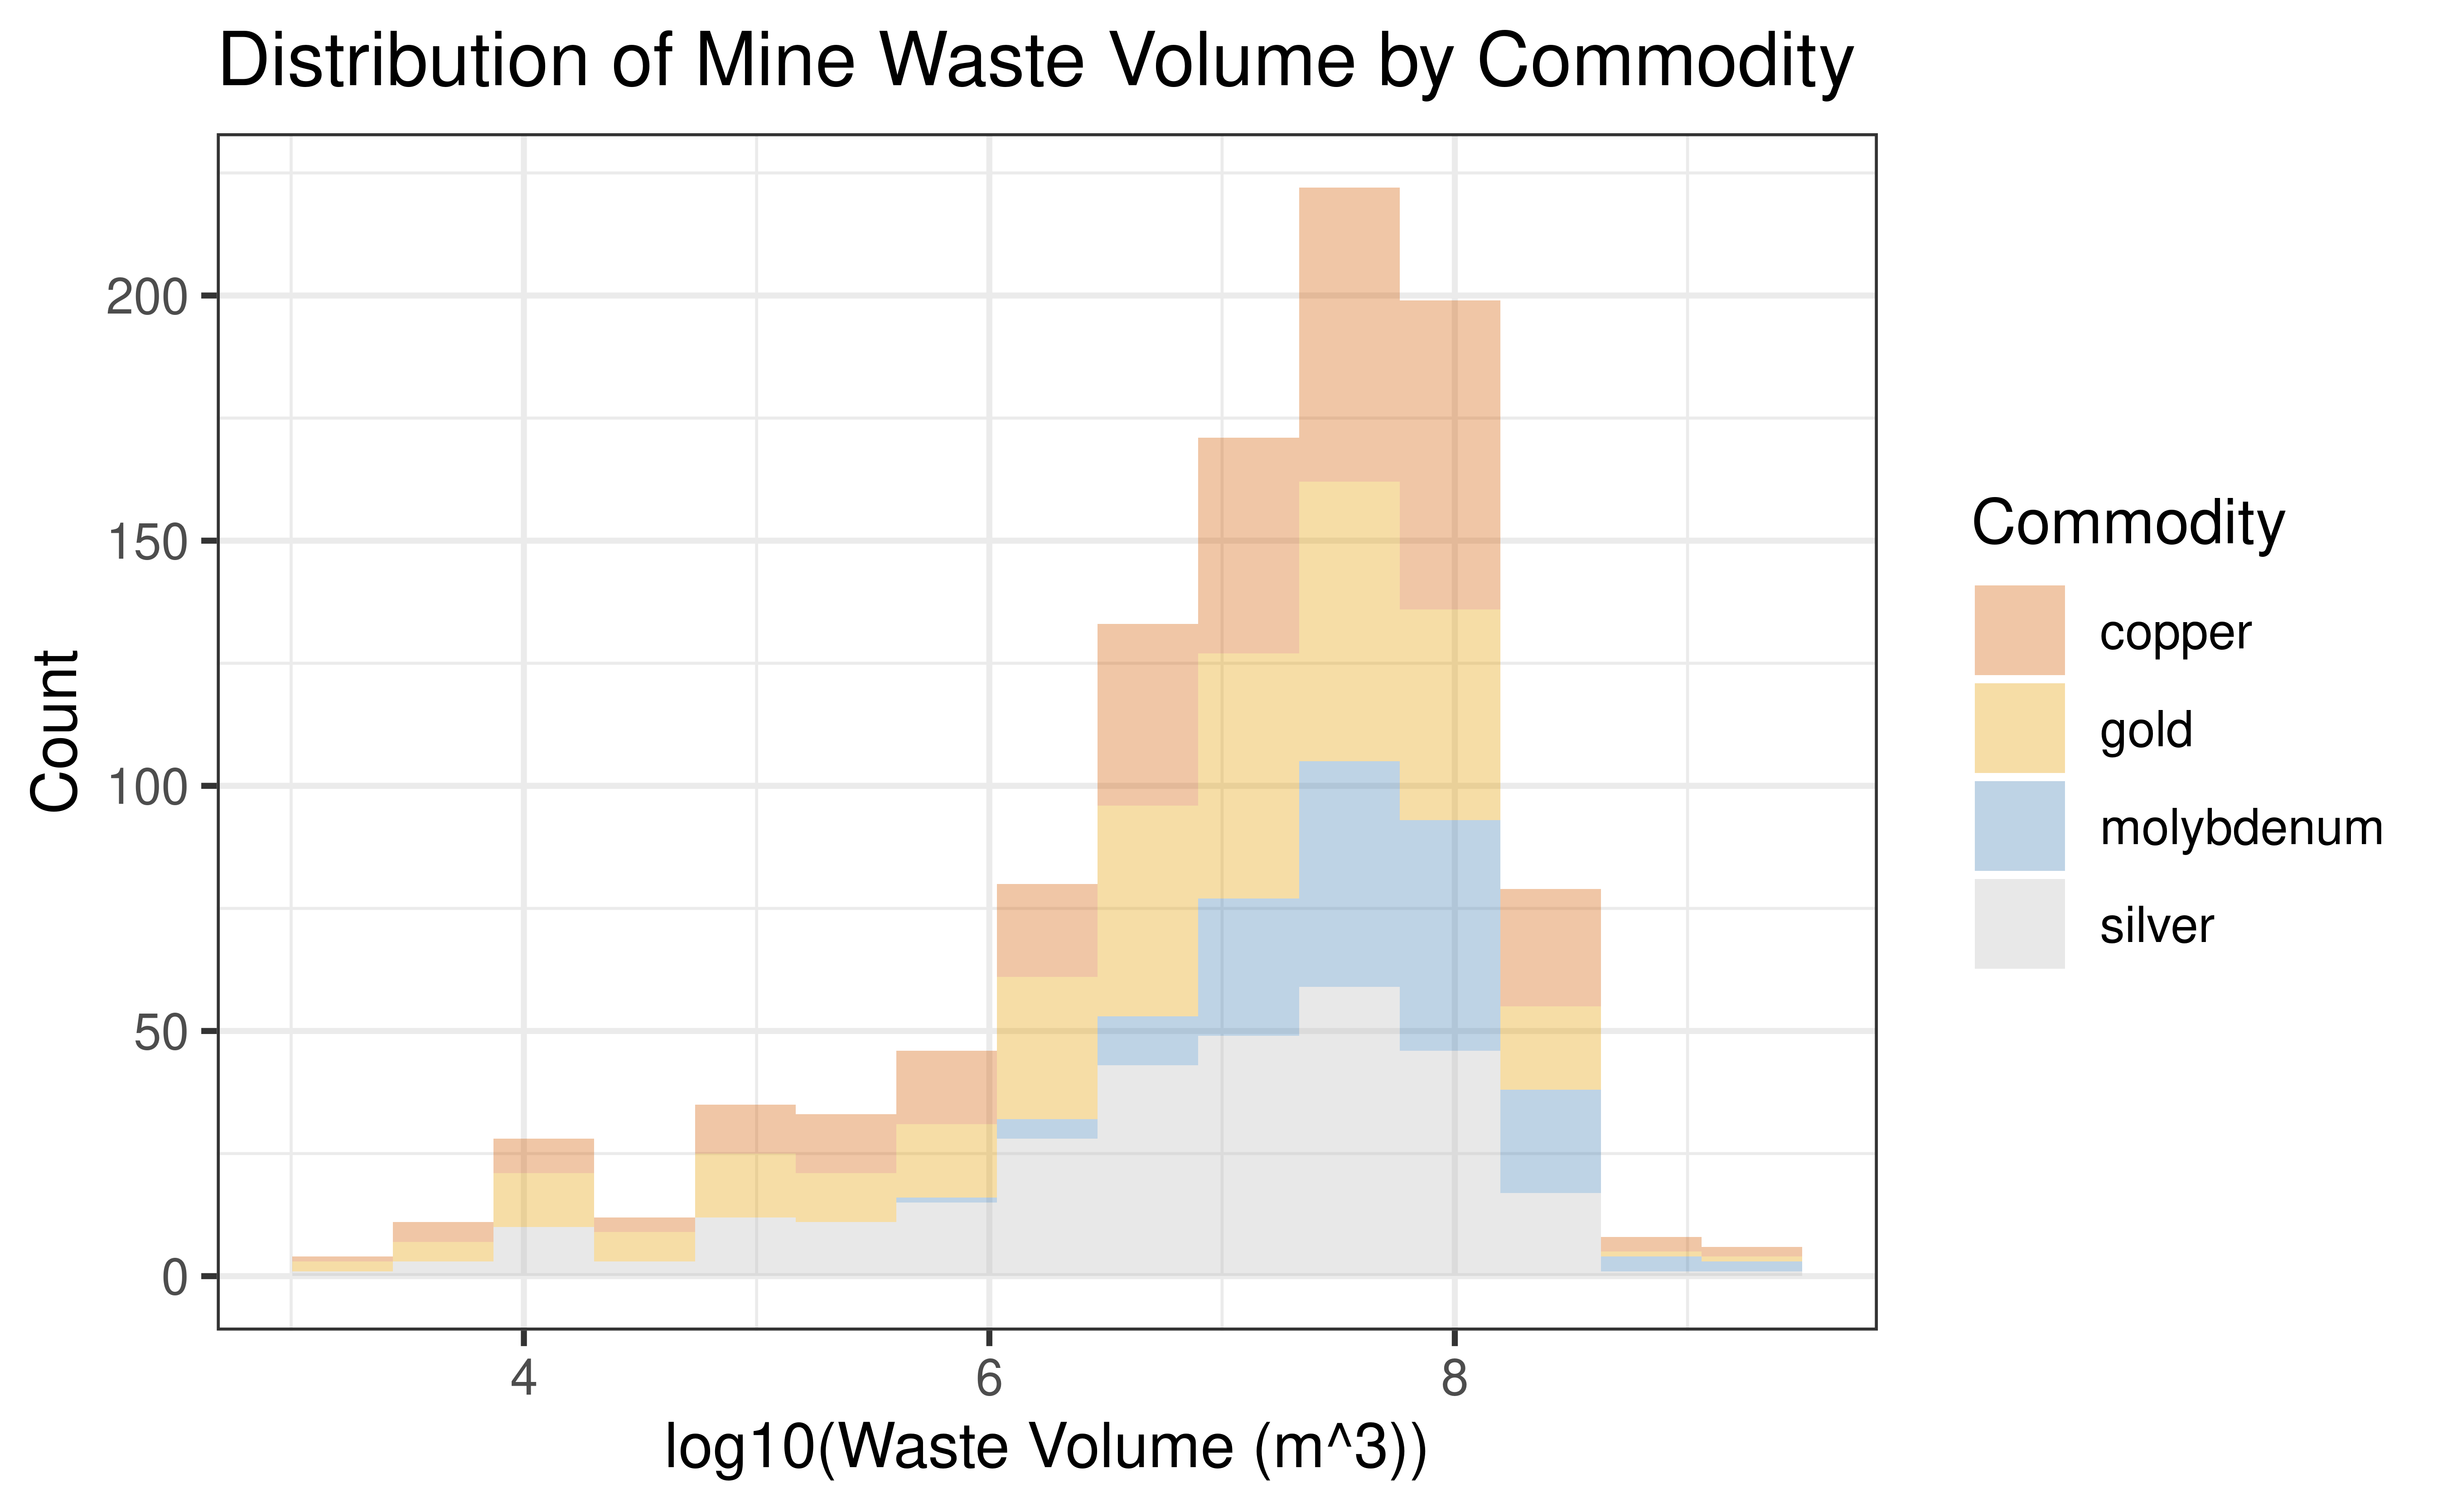
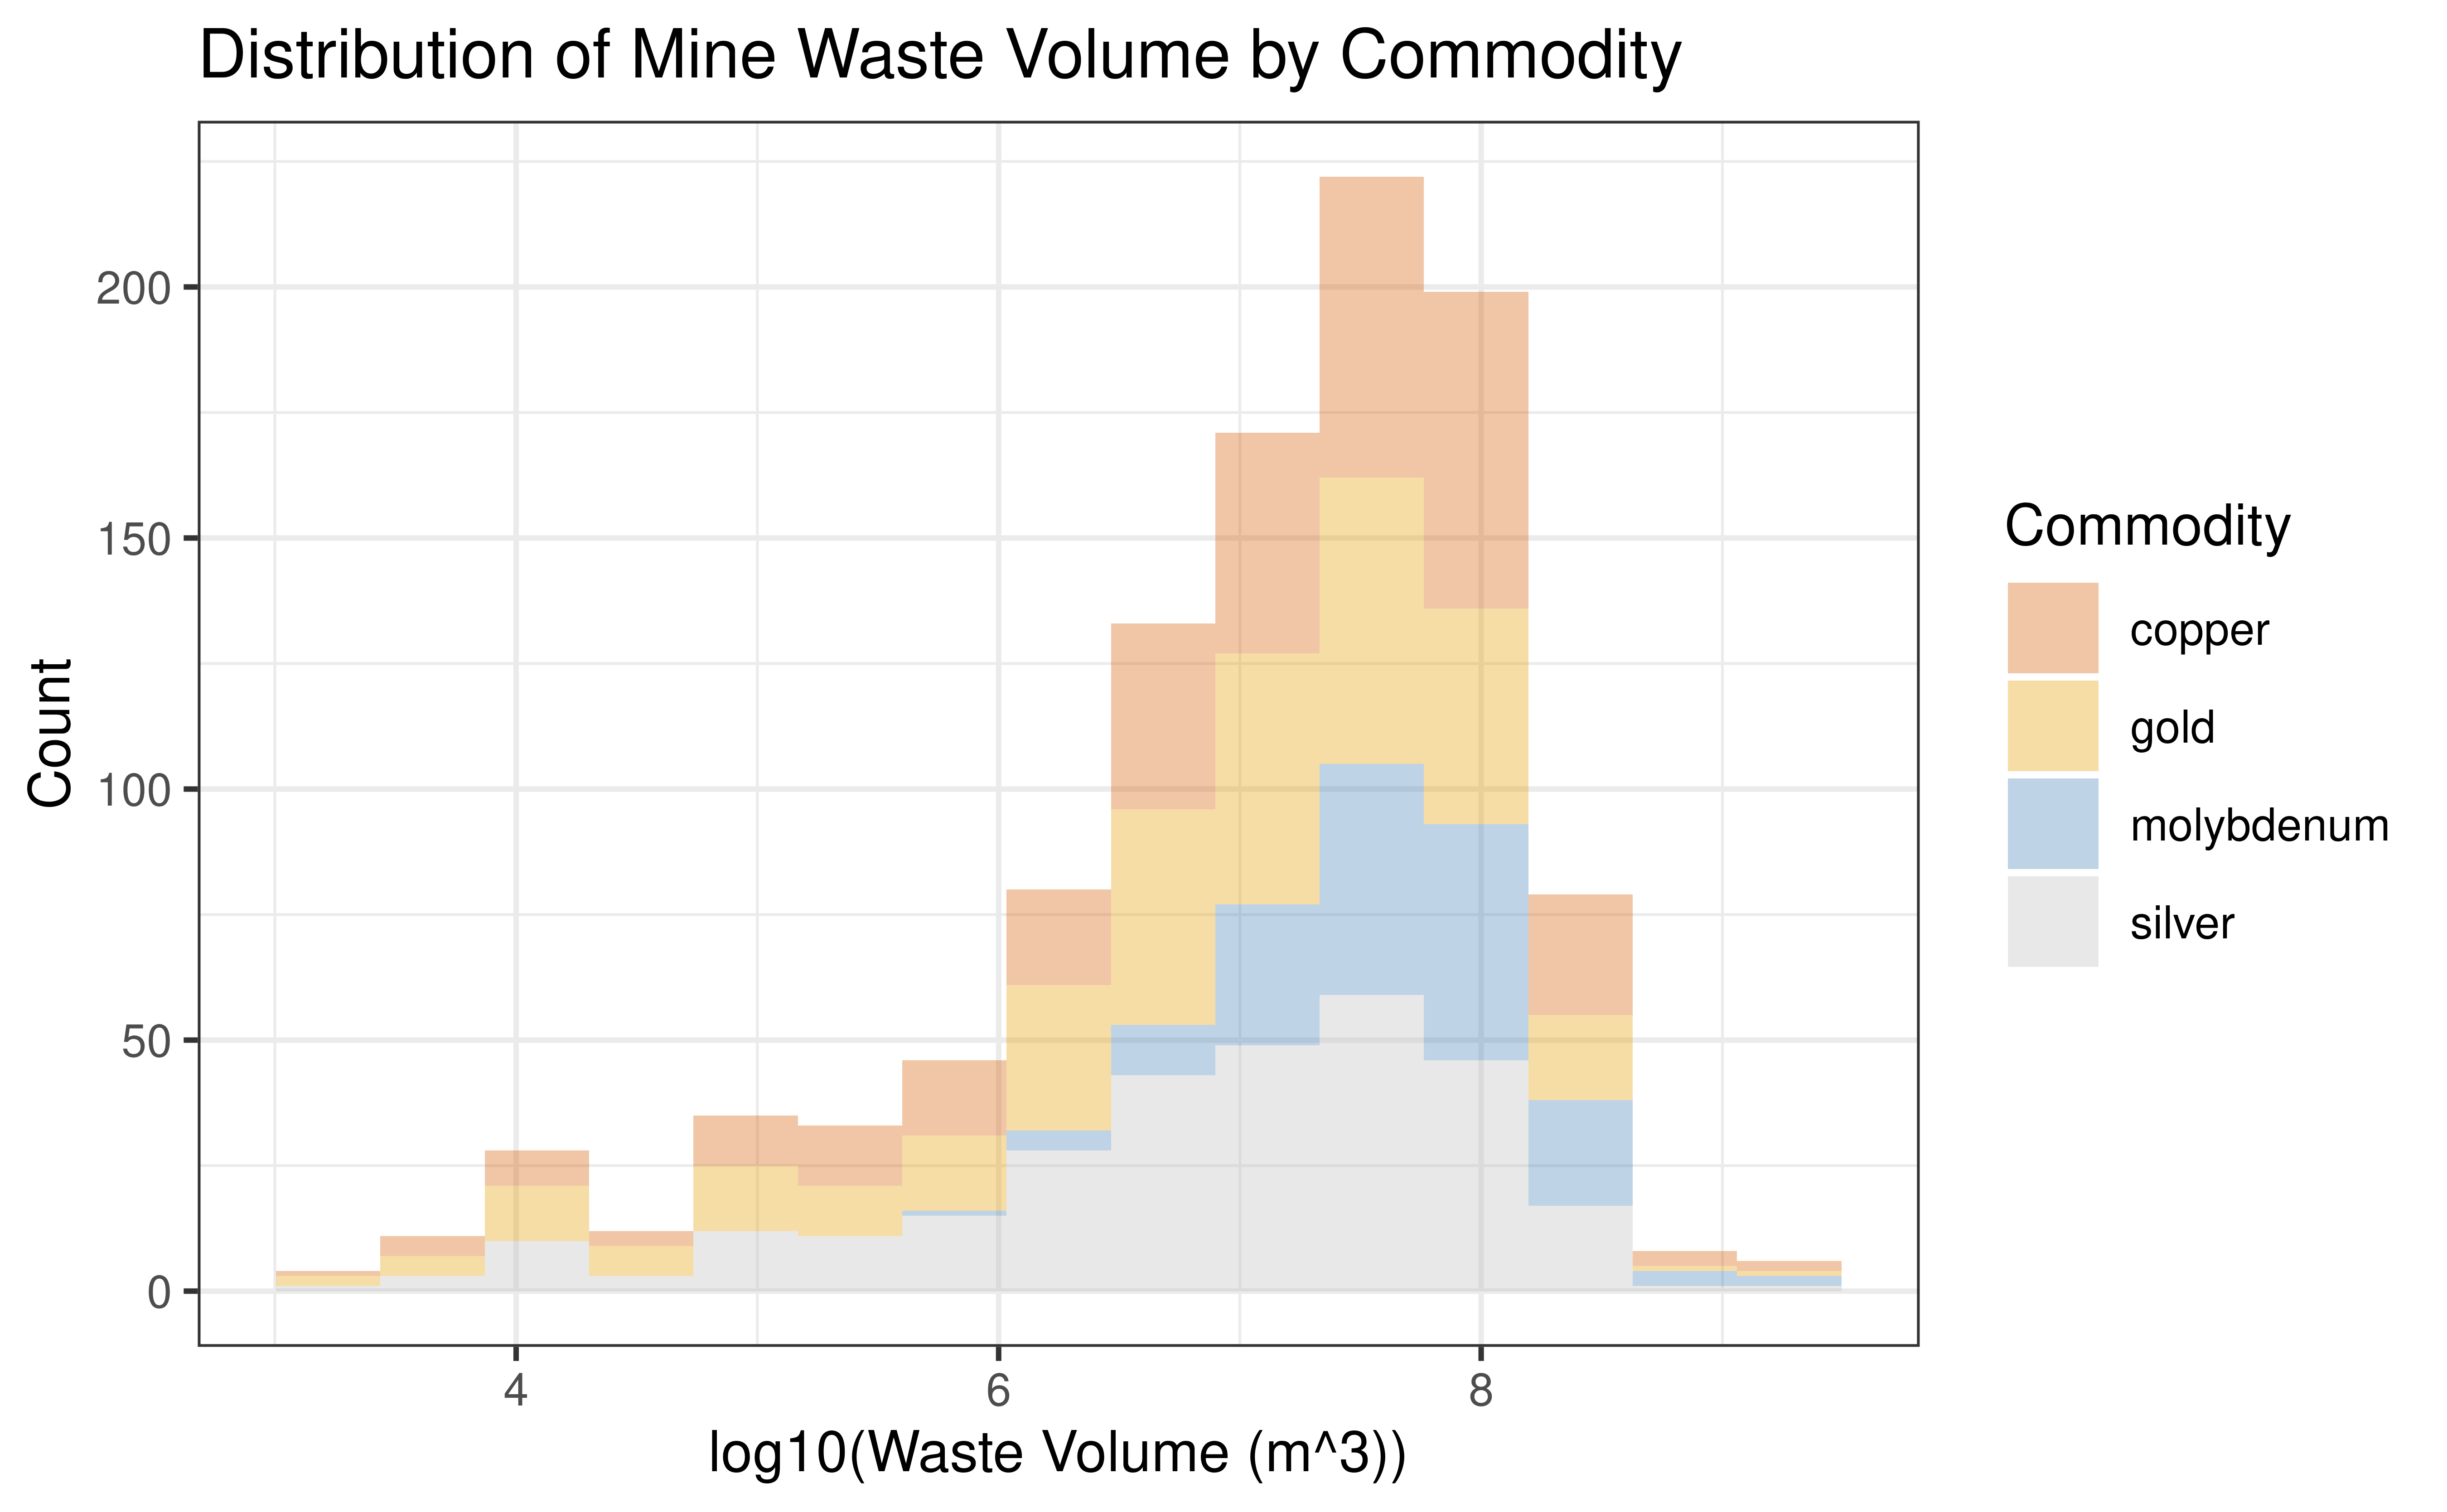
Final Presentation

diff --git a/project-starter/presentation/presentation.html b/project-starter/presentation/presentation.html
@@ -6,6 +6,7 @@
     <meta name="author" content="Indigo Sterud" />
     <meta name="date" content="2026-05-04" />
     <script src="libs/header-attrs-2.31/header-attrs.js"></script>
+    <link href="libs/remark-css-0.0.1/default.css" rel="stylesheet" />
     <script src="libs/kePrint-0.0.1/kePrint.js"></script>
     <link href="libs/lightable-0.0.1/lightable.css" rel="stylesheet" />
     <link rel="stylesheet" href="xaringan-themer.css" type="text/css" />
@@ -41,7 +42,6 @@ class: center, middle, inverse, title-slide
 
 
 
-
 ## Research Questions
 
 - Are there differences in waste production across states?
@@ -53,7 +53,7 @@ class: center, middle, inverse, title-slide
 ---
 
 ## Mining Data
-- Columns represent different mine waste features for each Mine Location.
+- Columns represent different mine waste features for each mine location.
 - Commodity = Minerals mine factories want
 - Gangue_Min = non-commodity minerals
 
@@ -148,10 +148,10 @@ class: center, middle
 ## Differences in Calculating Mining Waste per State
 
 ---
+class: center, middle
+**Arizona and Utah have large outliers...**
 
-Arizona and Utah have large outliers...
-
-- This reveals that using medians instead of means will be more beneficial in preventing skewed data.
+This reveals that using medians instead of means will be more beneficial in preventing skewed data, as well as using a log scale.
 
 &lt;img src="presentation_files/figure-html/state-waste-regular-1.png" alt="" width="80%" /&gt;
 
@@ -165,51 +165,23 @@ Arizona and Utah have large outliers...
 
 1.) It is a giant compliaton of PUBLIC mining data across the US, compiled by USGS.
 
-2.) Does not represent the whole of mines across each state / resource, or private companies.
+
+2.) Does not represent the whole of mines across each state / resource, especially private companies.
+
 
 3.) This already gives the data a lot of room for error.
 
+
 ---
 
-``` r
-set.seed(100)
-bootstrap_state &lt;- mining_clean %&gt;%
-  group_by(state_abbr) %&gt;%
-  summarize(
-    boot_median = list(
-      replicate(1000,
-        median(sample(Calc_Vol, replace = TRUE), na.rm = TRUE)
-      )
-    )
-  )
-
-bootstrap_ci &lt;- bootstrap_state %&gt;%
-  mutate(
-    median_est = map_dbl(boot_median, median),
-    lower = map_dbl(boot_median, ~quantile(.x, 0.025)),
-    upper = map_dbl(boot_median, ~quantile(.x, 0.975))
-  )
-
-ggplot(bootstrap_ci,
-       aes(x = reorder(state_abbr, median_est),
-           y = median_est)) +
-  geom_col(fill = "steelblue") +
-  scale_y_log10() +
-  geom_errorbar(aes(ymin = lower, ymax = upper), width = 0.35) +
-  theme_bw(base_size = 12) +
-  labs(
-    title = "Bootstrapped Median Mine Waste Volume by State",
-    x = "State",
-    y = "Median Volume"
-  )
-```
+**Bootstrapping** helps since some states have more mining sites than others.
 
 &lt;img src="presentation_files/figure-html/state-waste-bootstrap-1.png" alt="" width="80%" /&gt;
 
 ---
 class: inverse, middle, center
 
-# Commodity Minerals and Waste
+## Commodity Minerals and Waste
 
 - What is the relationship between the type of mineral and the amount of waste produced?
 
@@ -218,91 +190,58 @@ class: inverse, middle, center
 
 &lt;img src="presentation_files/figure-html/commodity-plot-1.png" alt="" width="80%" /&gt;
 
-- Tellurium is often harvested form large Mine Waste Locations
+- Tellurium is often harvested from large Mine Waste Locations
 
 - Gold is often associated with mines that are smaller scale and produce less waste.
 
 ---
-## Commodity Scatterplot
+# Commodity Scatterplot
 
-Silver, Molybdenum, Gold and Copper are the most prevalent.
+*Silver, Molybdenum, Gold and Copper* are the most prevalent.
 
 &lt;img src="presentation_files/figure-html/commodity-scatter-1.png" alt="" width="80%" /&gt;
 ---
 
-- The most amount of mine locations contained copper.
+1.) The most amount of mine locations contained copper, the least amount of mine locations contained silver.
 
-- The least amount of mine locations contained silver.
+2.) All had roughly the same shape, probably meaning they were found many of the same sites.
 
-- All had roughly the same shape, probably meaning they were found alot of the same sites.
-
-- All had roughly the same median amount of waste volume at the sites they were harvested (1E07)
+3.) All had roughly the same median amount of waste volume at the sites they were harvested (1E07)
 
 &lt;img src="presentation_files/figure-html/commodity-hist-1.png" alt="" width="80%" /&gt;
 ---
 ## ANOVA test for Commodity Minerals
 
-- What does this mean??
+Comparing 49 Commodity minerals, Pr(&lt;2e-16) shows that the difference in means between individual groups is extremely statistically significant, meaning different mineral commodities have different mean waste volume amounts, although they may be found at the same sites.
 
+
+``` r
+anova_model &lt;- aov(
+  log10(Calc_Vol) ~ Commodity,
+  data = Commodity_Long
+)
+
+summary(anova_model)
+```
 
 ```
 ##               Df Sum Sq Mean Sq F value Pr(&gt;F)    
-## Commodity     19  160.7   8.456   7.987 &lt;2e-16 ***
-## Residuals   1210 1281.0   1.059                   
+## Commodity     49   1341  27.360   21.93 &lt;2e-16 ***
+## Residuals   2033   2537   1.248                   
 ## ---
 ## Signif. codes:  0 '***' 0.001 '**' 0.01 '*' 0.05 '.' 0.1 ' ' 1
+## 52 observations deleted due to missingness
 ```
 
 ---
-class: inverse, middle, center
 
-# Gangue Minerals
-
-- What "economically undesireable" minerals are observed in high-waste sites?
-
----
-
-- Stilbite and Apophyllite are the most common Gangue Minerals identified from high waste volume sites.
-
-&lt;img src="presentation_files/figure-html/gangue-plot-1.png" alt="" width="80%" /&gt;
-
----
-
-# Stillbite
-
-&lt;div class="figure" style="text-align: center"&gt;
-&lt;img src="img/chicago-fall.jpeg" alt="Image credit: Photo by Enjoy Illinois." width="60%" /&gt;
-&lt;p class="caption"&gt;Image credit: Photo by Enjoy Illinois.&lt;/p&gt;
-&lt;/div&gt;
-
----
-
-# Images
-
-&lt;div class="figure" style="text-align: center"&gt;
-&lt;img src="img/chicago-fall.jpeg" alt="Image credit: Photo by Enjoy Illinois." width="60%" /&gt;
-&lt;p class="caption"&gt;Image credit: Photo by Enjoy Illinois.&lt;/p&gt;
-&lt;/div&gt;
-
-
----
-
-# Feeling adventurous?
-
-- Want to find out more about `xaringan`? See https://slides.yihui.name/xaringan/#1.
-
-- You are welcomed to use the default styling of the slides. In fact, that's what I expect majority of you will do. You will differentiate yourself with the content of your presentation.
-
-- But some of you might want to play around with slide styling. The 
-`xaringanthemer` provides some solutions for this that: https://pkg.garrickadenbuie.com/xaringanthemer.
-
-- And if you want more bells and whistles, there is also `xaringanExtra`: https://pkg.garrickadenbuie.com/xaringanExtra.
+# Thanks!
     </textarea>
 <style data-target="print-only">@media screen {.remark-slide-container{display:block;}.remark-slide-scaler{box-shadow:none;}}</style>
 <script src="https://remarkjs.com/downloads/remark-latest.min.js"></script>
 <script>var slideshow = remark.create({
   "ratio": "16:9",
-  "highlightStyle": "github",
+  "highlightStyle": "solarized-light",
   "highlightLines": true,
   "countIncrementalSlides": false
 });